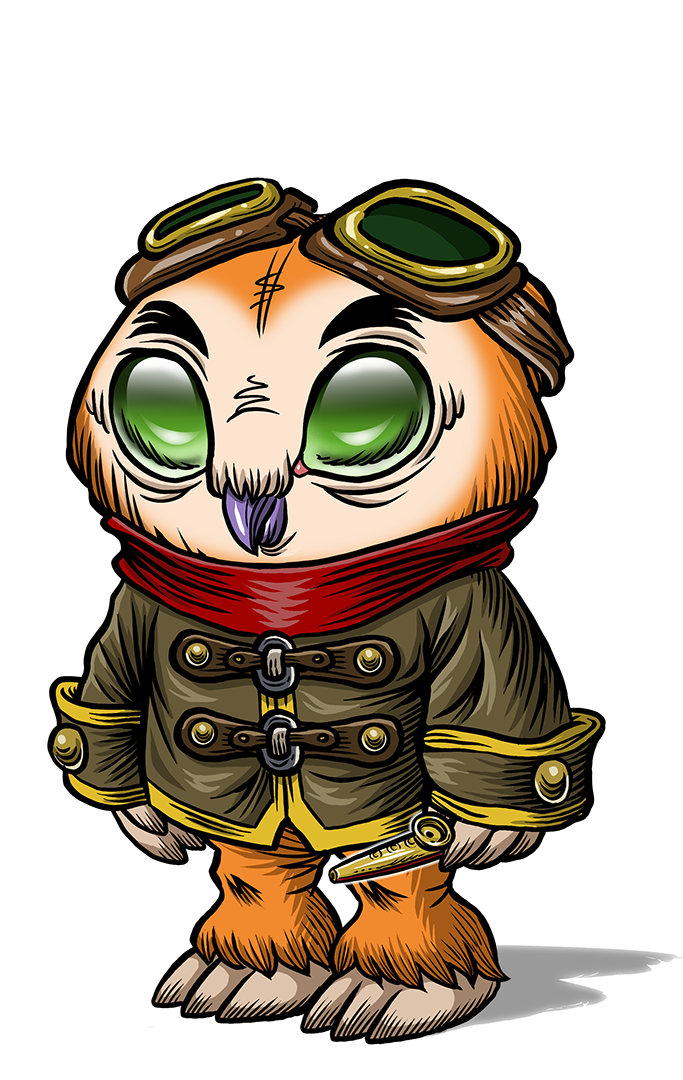
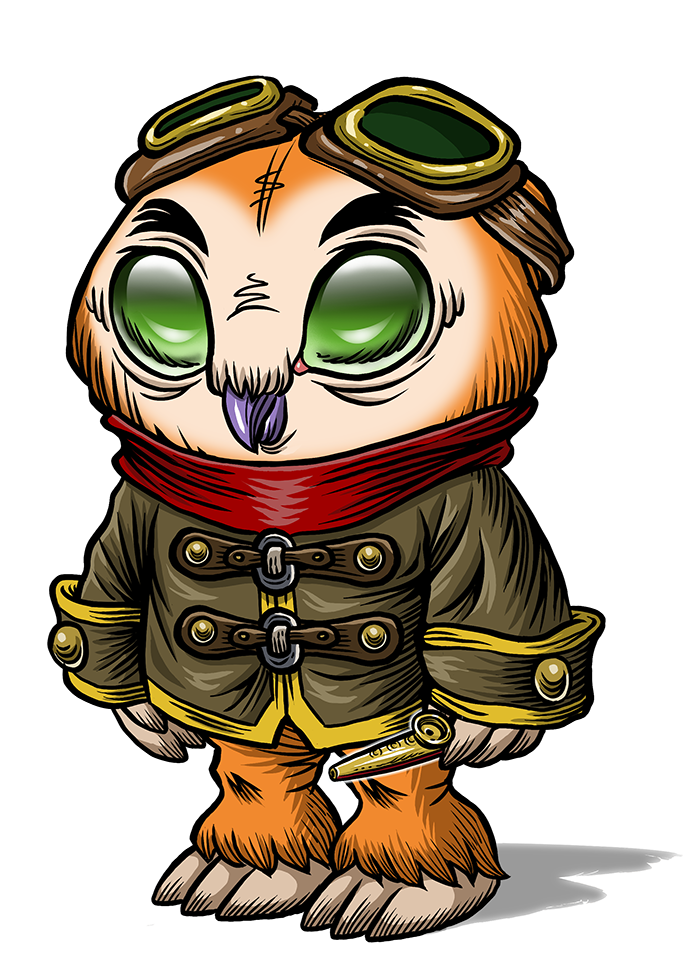
feat: create owile widget mock up

diff --git a/components/Patials/Sections/CreateOwile.tsx b/components/Patials/Sections/CreateOwile.tsx
@@ -1,4 +1,5 @@
-import React from 'react'
+import Image from 'next/image'
+import React, { useState } from 'react'
 import { featureData } from '../../../data/data'
 import { ButtonSize } from '../../../types/types'
 import Button from '../../Elements/Button'
@@ -7,7 +8,46 @@ import Paragraph from '../../Elements/Paragraph'
 import Section from '../../Layouts/Section'
 import { AnimateType, AnimateWrapper } from '../AnimateWrapper'
 
+interface OperationHistoryType {
+  background: number
+  body: number
+  clothes: number
+  face: number
+  head: number
+  accessory: number
+  [x: string]: number
+}
+
 export const CreateOwileSection = () => {
+  const [ operationHistory, setOperationHistory ] = useState<OperationHistoryType[]>([
+    {
+      background: 1,
+      body: 1,
+      clothes: 1,
+      face: 1,
+      head: 1,
+      accessory: 1,
+    }
+  ])
+  
+  const { background, body, clothes, face, head, accessory } = operationHistory[operationHistory.length - 1];
+
+  const handleBuilder = ( type: string, quantity: number ) => {
+    setOperationHistory([...operationHistory, { 
+      ...operationHistory[operationHistory.length - 1],
+      [type]: (operationHistory[operationHistory.length - 1][type]) % quantity + 1
+    }])
+  }
+
+  const handleUndo = () => {
+    operationHistory.pop();
+    setOperationHistory([...operationHistory]);
+  }
+
+  const handleReset = () => {
+    setOperationHistory([operationHistory[0]]);
+  }
+
   return (
     <Section className="mx-auto mt-[89px] tablet:mt-[133px] max-w-[500px] tablet:max-w-[900px] xl:max-w-[1120px] px-6 tablet:px-[45px] xl:px-[55px]">
       <AnimateWrapper xOffset={-100} delayOrder={1} animateType={AnimateType.SLIDEIN}>
@@ -16,41 +56,58 @@ export const CreateOwileSection = () => {
         </Heading>
       </AnimateWrapper>
       <div className="flex flex-col tablet:flex-row items-center tablet:items-end w-full mx-auto mt-[30px] tablet:mt-0">
-        <div className="w-full max-w-[220px] tablet:max-w-[316px] xl:max-w-[465px]">
-          <AnimateWrapper xOffset={-100} delayOrder={1} animateType={AnimateType.SLIDEIN} className="hidden tablet:block"> {/** Slide right to left on mobile */}
-            <img src="/custom-owile.png" alt="" className='rounded-[20px]' />
-          </AnimateWrapper>
-          <AnimateWrapper xOffset={100} delayOrder={1} animateType={AnimateType.SLIDEIN} className="block tablet:hidden">
-            <img src="/custom-owile.png" alt="" className='rounded-[20px]' />
-          </AnimateWrapper>
+        <div className="w-full max-w-[220px] tablet:max-w-[316px] xl:max-w-[465px] max-h-[220px] tablet:max-h-[316px] xl:max-h-[465px]">
+          <div className="rounded-[20px] relative h-[220px] tablet:h-[316px] xl:h-[465px]">
+            <Image src={`/nfts/background/0${background}.png`} alt="" className='rounded-[20px] h-full w-full' layout='fill' />
+            <img src={`/nfts/body/0${body}.png`} alt="" className='absolute top-0 h-full transform -translate-x-1/2 left-1/2' />
+            <img src={`/nfts/clothes/0${clothes}.png`} alt="" className='absolute top-0 h-full transform -translate-x-1/2 left-1/2' />
+            <img src={`/nfts/face/0${face}.png`} alt="" className='absolute top-0 h-full transform -translate-x-1/2 left-1/2' />
+            <img src={`/nfts/head/0${head}.png`} alt="" className='absolute top-0 h-full transform -translate-x-1/2 left-1/2' />
+            <img src={`/nfts/accessory/0${accessory}.png`} alt="" className='absolute top-0 h-full transform -translate-x-1/2 left-1/2' />
+          </div>
+          {/* <AnimateWrapper xOffset={-100} delayOrder={1} animateType={AnimateType.SLIDEIN}> * Slide right to left on mobile */}
+          {/* </AnimateWrapper> */}
         </div>
-        <div className="flex-grow pl-0 tablet:pl-16 xl:pl-24 mt-[30px] tablet:mt-0">
+        <Paragraph className="mt-1 text-[10px] tablet:text-3 xl:text-buttonSmall italic text-primary block tablet:hidden">
+          Features are limited, there will be many more for mint ;)
+        </Paragraph>
+        <div className="flex-grow pl-0 tablet:pl-16 xl:pl-24 mt-[22px] tablet:mt-0">
           <AnimateWrapper xOffset={100} delayOrder={1} animateType={AnimateType.SLIDEIN}>
             <Heading className="hidden text-white text-headingMobile tablet:text-8 xl:text-heading tablet:block">
               Create Your Owlie
             </Heading>
           </AnimateWrapper>
           <AnimateWrapper yOffset={0} delayOrder={1.5} animateType={AnimateType.FADEIN}>
-            <Paragraph className="mt-2 text-3.75 tablet:text-5 xl:text-content text-primary text-center tablet:text-left">
+            <Paragraph className="tablet:mt-2 text-3.75 tablet:text-5 xl:text-content text-primary text-center tablet:text-left">
               Randomly generate a feature:
             </Paragraph>
           </AnimateWrapper>
           <div className="mt-[14px] xl:mt-6">
             <div className="feature-container grid max-w-[294px] xl:max-w-[430px] grid-cols-3 gap-2 tablet:gap-3 xl:gap-5">
               {featureData.map((feature, index) => (
-                <AnimateWrapper yOffset={50} delayOrder={1.5 + index * 0.5} animateType={AnimateType.FADEIN} key={index} className="h-[90px] w-[90px] xl:h-[130px] xl:w-[130px] cursor-pointer rounded-[20px] bg-featureWrapperGradient p-1">
-                  <div className="flex flex-col justify-between h-full text-white bg-black rounded-2xl">
-                    <div className="h-full w-full rounded-lg bg-featureGradient xl:px-[22px] pt-3 pb-2 text-center hover:bg-featureGradientHover">
-                      <div className="mx-auto flex h-full max-h-[50px] max-w-[50px] xl:max-h-[75px] w-full xl:max-w-[75px] flex-col justify-center">
-                        <img
-                          src={feature.img}
-                          className="mx-auto"
-                          alt=""
-                        />
+                <AnimateWrapper 
+                yOffset={50}
+                delayOrder={1.5 + index * 0.5}
+                animateType={AnimateType.FADEIN}
+                key={index}
+                >
+                  <div 
+                    className='h-[90px] w-[90px] xl:h-[130px] xl:w-[130px] cursor-pointer rounded-[20px] bg-featureWrapperGradient p-1'
+                    onClick={() => handleBuilder(feature.type, feature.quantity)}
+                  >
+                    <div className="flex flex-col justify-between h-full text-white bg-black rounded-2xl">
+                      <div className="h-full w-full rounded-lg bg-featureGradient xl:px-[22px] pt-3 pb-2 text-center hover:bg-featureGradientHover">
+                        <div className="mx-auto flex h-full max-h-[50px] max-w-[50px] xl:max-h-[75px] w-full xl:max-w-[75px] flex-col justify-center">
+                          <img
+                            src={feature.img}
+                            className="mx-auto"
+                            alt=""
+                          />
+                        </div>
+                        <p className="text-gradient text-2.5 xl:text-buttonSmall mt-1">
+                          {feature.featureTitle}
+                        </p>
                       </div>
-                      <p className="text-gradient text-2.5 xl:text-buttonSmall mt-1">
-                        {feature.featureTitle}
-                      </p>
                     </div>
                   </div>
                 </AnimateWrapper>
@@ -59,7 +116,7 @@ export const CreateOwileSection = () => {
           </div>
           <AnimateWrapper animateType={AnimateType.FADEIN} yOffset={0} delayOrder={4} className="xl:mt-6 mt-[14px]">
             <div className="flex items-center justify-center tablet:justify-start">
-              <Button size={ButtonSize.SMALL} className="">
+              <Button size={ButtonSize.SMALL} className="" onClick={handleUndo} disabled={operationHistory.length === 1}>
                 <span className="flex items-center justify-start ml-2">
                   <img src="/Icons/Reset.svg" className="mr-1" alt="" />
                   Undo
@@ -69,6 +126,7 @@ export const CreateOwileSection = () => {
                 size={ButtonSize.SMALL}
                 outline={true}
                 className="ml-2 tablet:ml-[14px]"
+                onClick={handleReset}
               >
                 Restart
               </Button>

diff --git a/components/Elements/Button/index.tsx b/components/Elements/Button/index.tsx
@@ -1,13 +1,12 @@
-import React, { ReactNode } from 'react'
+import React, { ButtonHTMLAttributes, ReactNode } from 'react'
 import { ButtonSize } from '../../../types/types'
 
-import styles from '../../../styles/components/button.module.css'
-
-interface ButtonProps {
+interface ButtonProps extends ButtonHTMLAttributes<HTMLButtonElement> {
   className?: string
   children: string | ReactNode
   size?: ButtonSize
   outline?: boolean
+  rest?: Record<string, any>
 }
 
 const Button = ({
@@ -15,6 +14,7 @@ const Button = ({
   children,
   size = ButtonSize.PRIMARY,
   outline = false,
+  ...rest
 }: ButtonProps) => {
   const baseClassName =
     size === ButtonSize.PRIMARY
@@ -24,9 +24,9 @@ const Button = ({
       : `max-w-[64px] xl:max-w-[90px] font-semibold`
 
   return (
-    <>
       <button
         className={`${className} w-full rounded-[20px] font-RedHat transition-all duration-1000 ${baseClassName}`}
+        {...rest}
       >
         {!outline ? (
           children
@@ -42,7 +42,6 @@ const Button = ({
           </>
         )}
       </button>
-    </>
   )
 }
 
